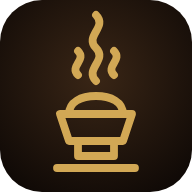
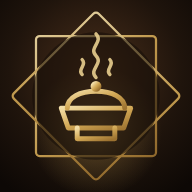
تثبيت الموقع كتطبيق: أيقونتان، شاشة افتتاحية، زر التثبيت وتشغيل بدون إنترنت
Claude-Session: https://claude.ai/code/session_01VgKCmJPkWiUpBjWzezRiNP

diff --git a/js/pwa.js b/js/pwa.js
@@ -1,0 +1,41 @@
+// التثبيت كتطبيق + الشاشة الافتتاحية
+const standalone = matchMedia('(display-mode: standalone)').matches || navigator.standalone === true;
+const isIOS = /iphone|ipad|ipod/i.test(navigator.userAgent) || (navigator.platform === 'MacIntel' && navigator.maxTouchPoints > 1);
+
+if ('serviceWorker' in navigator) addEventListener('load', () => navigator.serviceWorker.register('sw.js').catch(() => {}));
+
+// الشاشة الافتتاحية: تظهر عند فتح التطبيق المثبت
+export function splash(kind) {
+  if (!standalone) return;
+  let name = 'عطور سمائل';
+  try { name = localStorage.getItem('oud_shop_name') || name; } catch {}
+  const el = document.createElement('div');
+  el.className = 'splash';
+  el.innerHTML = `<div class="splash-in"><img src="img/${kind === 'admin' ? 'icon-admin' : 'icon'}-512.png" alt="">
+    <h1>${name.replace(/[<>&]/g, '')}</h1><p>${kind === 'admin' ? 'المحاسبة والمبيعات' : 'عطور · أدهان · بخور · لبان عُماني'}</p></div>`;
+  document.body.append(el);
+  setTimeout(() => el.classList.add('out'), 1300);
+  setTimeout(() => el.remove(), 1900);
+}
+export function rememberShopName(n) { try { if (n) localStorage.setItem('oud_shop_name', n); } catch {} }
+
+// زر «ثبّت التطبيق»
+export function installButton(btn) {
+  if (!btn || standalone) return;
+  let deferred = null;
+  addEventListener('beforeinstallprompt', e => { e.preventDefault(); deferred = e; btn.classList.remove('hidden'); });
+  addEventListener('appinstalled', () => btn.classList.add('hidden'));
+  if (isIOS) btn.classList.remove('hidden');
+  btn.addEventListener('click', async () => {
+    if (deferred) { deferred.prompt(); await deferred.userChoice; deferred = null; btn.classList.add('hidden'); return; }
+    const wrap = document.createElement('div');
+    wrap.className = 'modal-wrap';
+    wrap.innerHTML = `<div class="modal"><button class="modal-x" aria-label="إغلاق">×</button>
+      <h2>ثبّت التطبيق على جوالك</h2>
+      ${isIOS ? `<ol class="steps"><li>افتح الرابط في متصفح <b>Safari</b>.</li><li>اضغط زر المشاركة <b>⬆</b> في أسفل الشاشة.</li><li>اختر <b>«إضافة إلى الشاشة الرئيسية»</b> ثم <b>«إضافة»</b>.</li></ol>`
+      : `<ol class="steps"><li>افتح الرابط في متصفح <b>Chrome</b>.</li><li>اضغط القائمة <b>⋮</b> في أعلى الشاشة.</li><li>اختر <b>«تثبيت التطبيق»</b> أو <b>«إضافة إلى الشاشة الرئيسية»</b>.</li></ol>`}
+      <p class="muted">بعدها تظهر الأيقونة على شاشة جوالك ويفتح كتطبيق كامل الشاشة.</p></div>`;
+    wrap.addEventListener('click', e => { if (e.target === wrap || e.target.closest('.modal-x')) wrap.remove(); });
+    document.body.append(wrap);
+  });
+}

diff --git a/admin.html b/admin.html
@@ -7,8 +7,12 @@
   <meta name="theme-color" content="#1a110b">
   <meta name="robots" content="noindex">
   <link rel="manifest" href="manifest-admin.webmanifest">
-  <link rel="icon" href="img/icon.svg" type="image/svg+xml">
-  <link rel="apple-touch-icon" href="img/icon-192.png">
+  <link rel="icon" href="img/icon-admin-192.png" type="image/png">
+  <link rel="apple-touch-icon" href="img/icon-admin-180.png">
+  <meta name="apple-mobile-web-app-capable" content="yes">
+  <meta name="mobile-web-app-capable" content="yes">
+  <meta name="apple-mobile-web-app-status-bar-style" content="black-translucent">
+  <meta name="apple-mobile-web-app-title" content="محاسبة المحل">
   <link rel="preconnect" href="https://fonts.googleapis.com">
   <link rel="preconnect" href="https://fonts.gstatic.com" crossorigin>
   <link href="https://fonts.googleapis.com/css2?family=Amiri:wght@400;700&family=Tajawal:wght@400;500;700;800&display=swap" rel="stylesheet">
@@ -33,6 +37,7 @@
         <div class="field"><label for="pw">كلمة المرور</label><input id="pw" type="password" autocomplete="current-password" required></div>
         <button class="btn btn-gold btn-block">دخول</button>
       </form>
+      <button class="btn btn-ghost btn-block install-btn hidden" id="installBtn2" style="margin-top:10px">ثبّت التطبيق على الجوال</button>
     </div>
   </section>
 
@@ -42,6 +47,7 @@
       <div class="abar-in">
         <div class="brand-s"><span id="appMark"></span><b id="appShop">عطور سمائل</b></div>
         <div class="abar-end">
+          <button class="btn btn-ghost btn-sm install-btn hidden" id="installBtn">ثبّت التطبيق</button>
           <span class="badge" id="whoami"></span>
           <a class="btn btn-ghost btn-sm" href="index.html" target="_blank">المتجر</a>
           <button class="btn btn-ghost btn-sm" id="logout">خروج</button>

diff --git a/index.html b/index.html
@@ -7,8 +7,12 @@
   <meta name="description" content="عطور، أدهان، بخور ولبان عُماني أصيل من سمائل. اطلب من جوالك وادفع بالتحويل البنكي على رقم الهاتف.">
   <meta name="theme-color" content="#1a110b">
   <link rel="manifest" href="manifest.webmanifest">
-  <link rel="icon" href="img/icon.svg" type="image/svg+xml">
-  <link rel="apple-touch-icon" href="img/icon-192.png">
+  <link rel="icon" href="img/icon-192.png" type="image/png">
+  <link rel="apple-touch-icon" href="img/icon-180.png">
+  <meta name="apple-mobile-web-app-capable" content="yes">
+  <meta name="mobile-web-app-capable" content="yes">
+  <meta name="apple-mobile-web-app-status-bar-style" content="black-translucent">
+  <meta name="apple-mobile-web-app-title" content="عطور سمائل">
   <link rel="preconnect" href="https://fonts.googleapis.com">
   <link rel="preconnect" href="https://fonts.gstatic.com" crossorigin>
   <link href="https://fonts.googleapis.com/css2?family=Amiri:wght@400;700&family=Tajawal:wght@400;500;700;800&display=swap" rel="stylesheet">
@@ -24,10 +28,11 @@
         <span class="brand-mark" id="brandMark"></span>
         <span><b id="shopName">عطور سمائل</b><small>عطور · أدهان · بخور · لبان عُماني</small></span>
       </a>
+      <div style="display:flex;gap:8px;align-items:center"><button class="btn btn-ghost install-btn hidden" id="installBtn">ثبّت التطبيق</button>
       <button class="btn btn-ghost cart-btn" id="cartBtn" aria-label="السلة">
         <svg class="ico" viewBox="0 0 24 24" fill="none" stroke="currentColor" stroke-width="1.8" stroke-linecap="round" stroke-linejoin="round"><path d="M6 7h12l-1 13H7z"/><path d="M9 7a3 3 0 0 1 6 0"/></svg>
         <span class="cart-count" id="cartCount">0</span>
-      </button>
+      </button></div>
     </div>
   </header>
 

diff --git a/sw.js b/sw.js
@@ -1,0 +1,19 @@
+// يجعل الموقع قابلاً للتثبيت كتطبيق ويفتح بسرعة. لا يخزّن بيانات قاعدة البيانات.
+const CACHE = 'oud-v3';
+const CORE = ['./', './index.html', './admin.html', './css/style.css', './css/store.css', './css/admin.css',
+  './js/config.js', './js/util.js', './js/db.js', './js/store.js', './js/admin.js', './js/pwa.js',
+  './vendor/supabase.js', './vendor/html5-qrcode.min.js', './vendor/JsBarcode.all.min.js', './vendor/chart.umd.js',
+  './img/icon-192.png', './img/icon-admin-192.png'];
+self.addEventListener('install', e => { e.waitUntil(caches.open(CACHE).then(c => c.addAll(CORE)).then(() => self.skipWaiting())); });
+self.addEventListener('activate', e => {
+  e.waitUntil(caches.keys().then(ks => Promise.all(ks.filter(k => k !== CACHE).map(k => caches.delete(k)))).then(() => self.clients.claim()));
+});
+self.addEventListener('fetch', e => {
+  const url = new URL(e.request.url);
+  if (e.request.method !== 'GET' || url.origin !== location.origin) return; // Supabase والخطوط تمر مباشرة
+  // الشبكة أولاً حتى تصل التحديثات فوراً، والنسخة المخزنة عند انقطاع الإنترنت
+  e.respondWith(fetch(e.request).then(r => {
+    if (r.ok) { const copy = r.clone(); caches.open(CACHE).then(c => c.put(e.request, copy)); }
+    return r;
+  }).catch(() => caches.match(e.request, { ignoreSearch: true })));
+});

diff --git a/js/store.js b/js/store.js
@@ -1,4 +1,5 @@
 import { db, DEMO } from './db.js';
+import { splash, installButton, rememberShopName } from './pwa.js';
 import { CATEGORIES, catById, money, esc, $, $$, toast, icon, productVisual, openModal } from './util.js';
 
 const HERO_ART = `<svg viewBox="0 0 400 400" fill="none" stroke="currentColor" stroke-linecap="round" stroke-linejoin="round">
@@ -28,6 +29,7 @@ const cartItems = () => Object.entries(state.cart).map(([id, qty]) => ({ p: stat
 const cartTotal = () => cartItems().reduce((s, x) => s + x.p.price * x.qty, 0);
 
 async function init() {
+  splash('store'); installButton($('#installBtn'));
   if (DEMO) $('#demo').classList.remove('hidden');
   $('#brandMark').innerHTML = icon('logo');
   $('#brandMark2').innerHTML = icon('logo');
@@ -41,7 +43,7 @@ async function init() {
     [state.settings, state.products] = await Promise.all([db.getSettings(), db.listProducts()]);
   } catch (e) { toast('تعذر تحميل المنتجات: ' + e.message, 'bad'); }
   const name = state.settings.shop_name || 'عطور سمائل';
-  $('#shopName').textContent = name; $('#footName').textContent = name;
+  $('#shopName').textContent = name; $('#footName').textContent = name; rememberShopName(state.settings.shop_name);
   document.title = `${name} | عطور وبخور ولبان عُماني`;
   $('#storeNote').textContent = state.settings.store_note || '';
   // تنظيف السلة من منتجات لم تعد متوفرة

diff --git a/js/admin.js b/js/admin.js
@@ -1,4 +1,5 @@
 import { db, DEMO } from './db.js';
+import { splash, installButton, rememberShopName } from './pwa.js';
 import { CATEGORIES, catById, PAY_METHODS, money, esc, $, $$, toast, beep, icon, productVisual, openModal, fmtDate, ean13, ask } from './util.js';
 
 const S = { role: null, settings: {}, products: [], cart: new Map(), pay: 'cash', scanner: null, lastScan: { code: '', t: 0 },
@@ -30,6 +31,7 @@ function printHTML(html) {
 
 // ------------------------------------------------------------ الدخول
 async function init() {
+  splash('admin'); installButton($('#installBtn')); installButton($('#installBtn2'));
   if (DEMO) { $('#demo').classList.remove('hidden'); $('#demoReset').classList.remove('hidden'); }
   $('#loginMark').innerHTML = icon('logo'); $('#appMark').innerHTML = icon('logo');
   setShopName();
@@ -42,7 +44,7 @@ async function loadSettings() {
   for (let i = 0; i < 3; i++) {
     try {
       const v = await db.getSettings();
-      if (v) { S.settings = v; S.settingsLoaded = true; setShopName(); return; }
+      if (v) { S.settings = v; S.settingsLoaded = true; setShopName(); rememberShopName(v.shop_name); return; }
     } catch (e) { if (i === 2) toast('تعذر الاتصال بقاعدة البيانات: ' + e.message, 'bad'); }
     await new Promise(r => setTimeout(r, 1500));
   }

diff --git a/css/style.css b/css/style.css
@@ -150,3 +150,14 @@ textarea { min-height: 80px; resize: vertical; }
 }
 input[type=file] { padding: .5em; }
 input[type=file]::file-selector-button { font: 700 .9rem var(--font); color: #1b1007; background: linear-gradient(135deg, var(--gold-2), var(--gold)); border: 0; border-radius: 999px; padding: .5em 1em; margin-inline-end: 10px; cursor: pointer; }
+
+/* ---------- الشاشة الافتتاحية للتطبيق المثبت ---------- */
+.splash { position: fixed; inset: 0; z-index: 100; display: grid; place-items: center; background: radial-gradient(circle at 50% 40%, #3a2616, #0f0906 70%); transition: opacity .6s; }
+.splash.out { opacity: 0; pointer-events: none; }
+.splash-in { text-align: center; animation: pop .7s; }
+.splash img { width: 132px; height: 132px; border-radius: 30px; margin: 0 auto 18px; box-shadow: 0 0 60px rgba(210, 168, 85, .35); }
+.splash h1 { font-size: 2.2rem; color: var(--gold-2); margin: 0; }
+.splash p { color: var(--muted); margin: 6px 0 0; }
+.install-btn { font-size: .85rem; padding: .5em .9em; }
+@media print { .splash { display: none !important; } }
+.modal > .modal-x + h2, .modal > .modal-x + div h2:first-child { padding-inline-start: 44px; }

diff --git a/css/store.css b/css/store.css
@@ -80,3 +80,8 @@
 .foot .ico { width: 34px; height: 34px; }
 .sticky-cart { position: fixed; bottom: 0; inset-inline: 0; z-index: 40; padding: 12px 16px calc(12px + env(safe-area-inset-bottom)); background: linear-gradient(0deg, rgba(15, 9, 6, .96), rgba(15, 9, 6, .7)); border-top: 1px solid var(--line); }
 @media (min-width: 900px) { .sticky-cart { inset-inline: auto 24px; bottom: 24px; width: 320px; border-radius: 999px; border: 1px solid var(--line); padding: 8px; } }
+@media (max-width: 480px) {
+  .brand small { display: none; }
+  .brand b { font-size: 1.2rem; }
+  .install-btn { padding: .45em .75em; font-size: .8rem; }
+}
